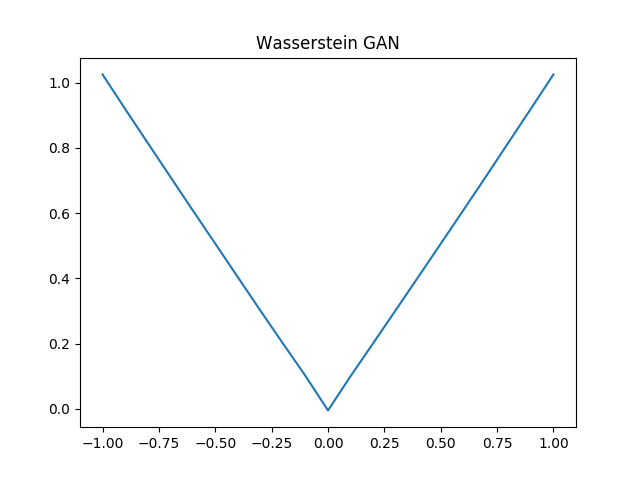
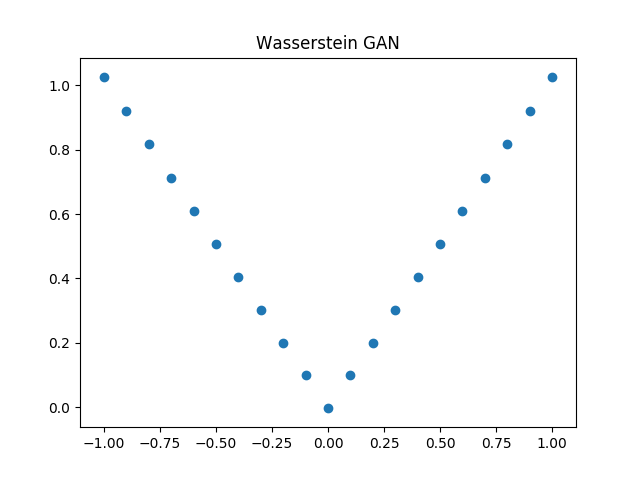
update WD

diff --git a/gan_eval/gan(Generator_Discriminator).py b/gan_eval/gan(Generator_Discriminator).py
@@ -58,8 +58,6 @@ def get_data_loader(dataset_location, batch_size):
     return trainloader, validloader, testloader
 
 
-
-
 class Generator(nn.Module):
     def __init__(self, channels, latent_dim, cuda):
         super(Generator, self).__init__()
@@ -234,7 +232,7 @@ def train(Discriminator, Generator, trainloader, latent_dim, batch_size, epochs,
             optimizer_D.step()
 
 
-            if update_d % 6 == 0:
+            if update_d % 5 == 0:
                 noise = Variable(torch.randn(batch_size, latent_dim)).to(device)
                 D_y = Variable(Generator(noise)).to(device)
 
@@ -264,8 +262,8 @@ if __name__ == "__main__":
     # print (torch.cuda.current_device())
 
     parser = argparse.ArgumentParser()
-    parser.add_argument("--epochs", type=int, default=100, help="number of epochs of training")
-    parser.add_argument("--batch_size", type=int, default=256, help="size of the batches")
+    parser.add_argument("--epochs", type=int, default=200, help="number of epochs of training")
+    parser.add_argument("--batch_size", type=int, default=512, help="size of the batches")
     parser.add_argument("--optimizer", type=str, default='Adam', help="type of the optimizer")
     parser.add_argument("--lr", type=float, default=1e-9, help="adam: learning rate")
     parser.add_argument("--latent_dim", type=int, default=100, help="dimensionality of the latent space")

diff --git a/gan/WD.py b/gan/WD.py
@@ -117,8 +117,9 @@ def train_WD():
 	print(losses)
 	print ('Done...')
 
+	losses = np.array(losses)
 	plt.figure()
-	plt.plot(thetas,losses)
+	plt.scatter(thetas,losses)
 	plt.title('Wasserstein GAN')
 	plt.savefig('Wasserstein_D.png')
 	plt.close()
